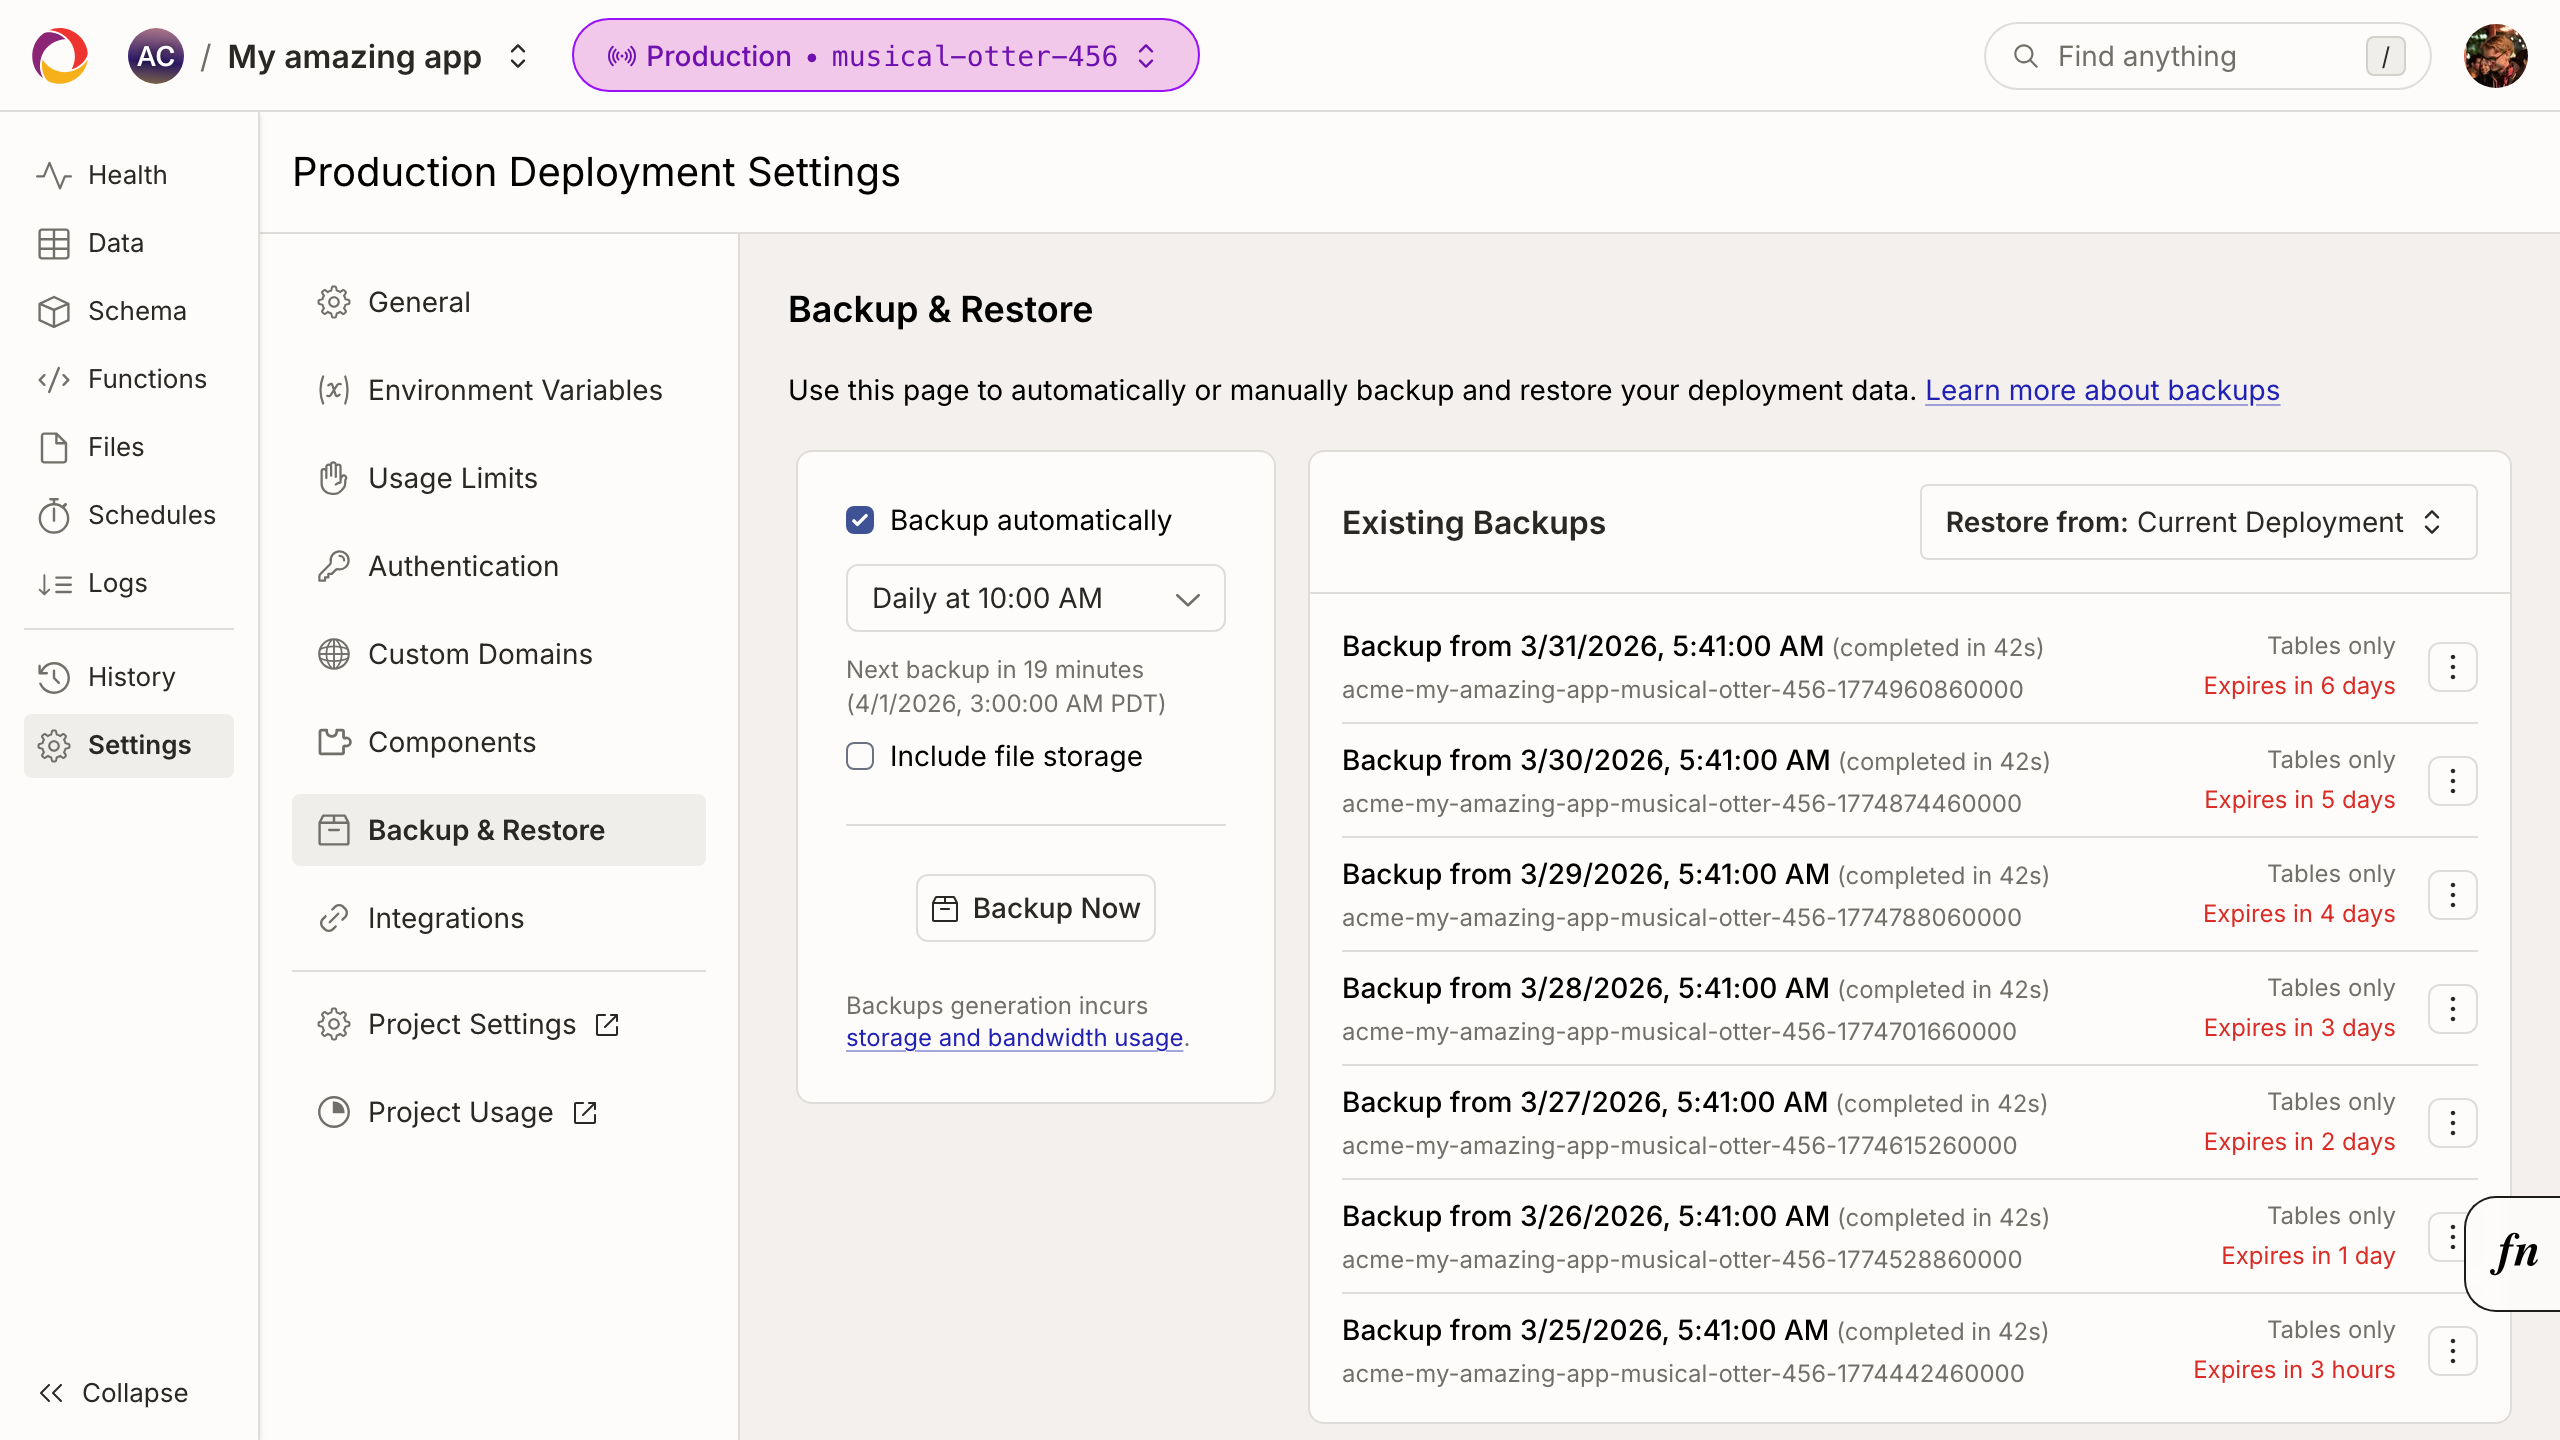
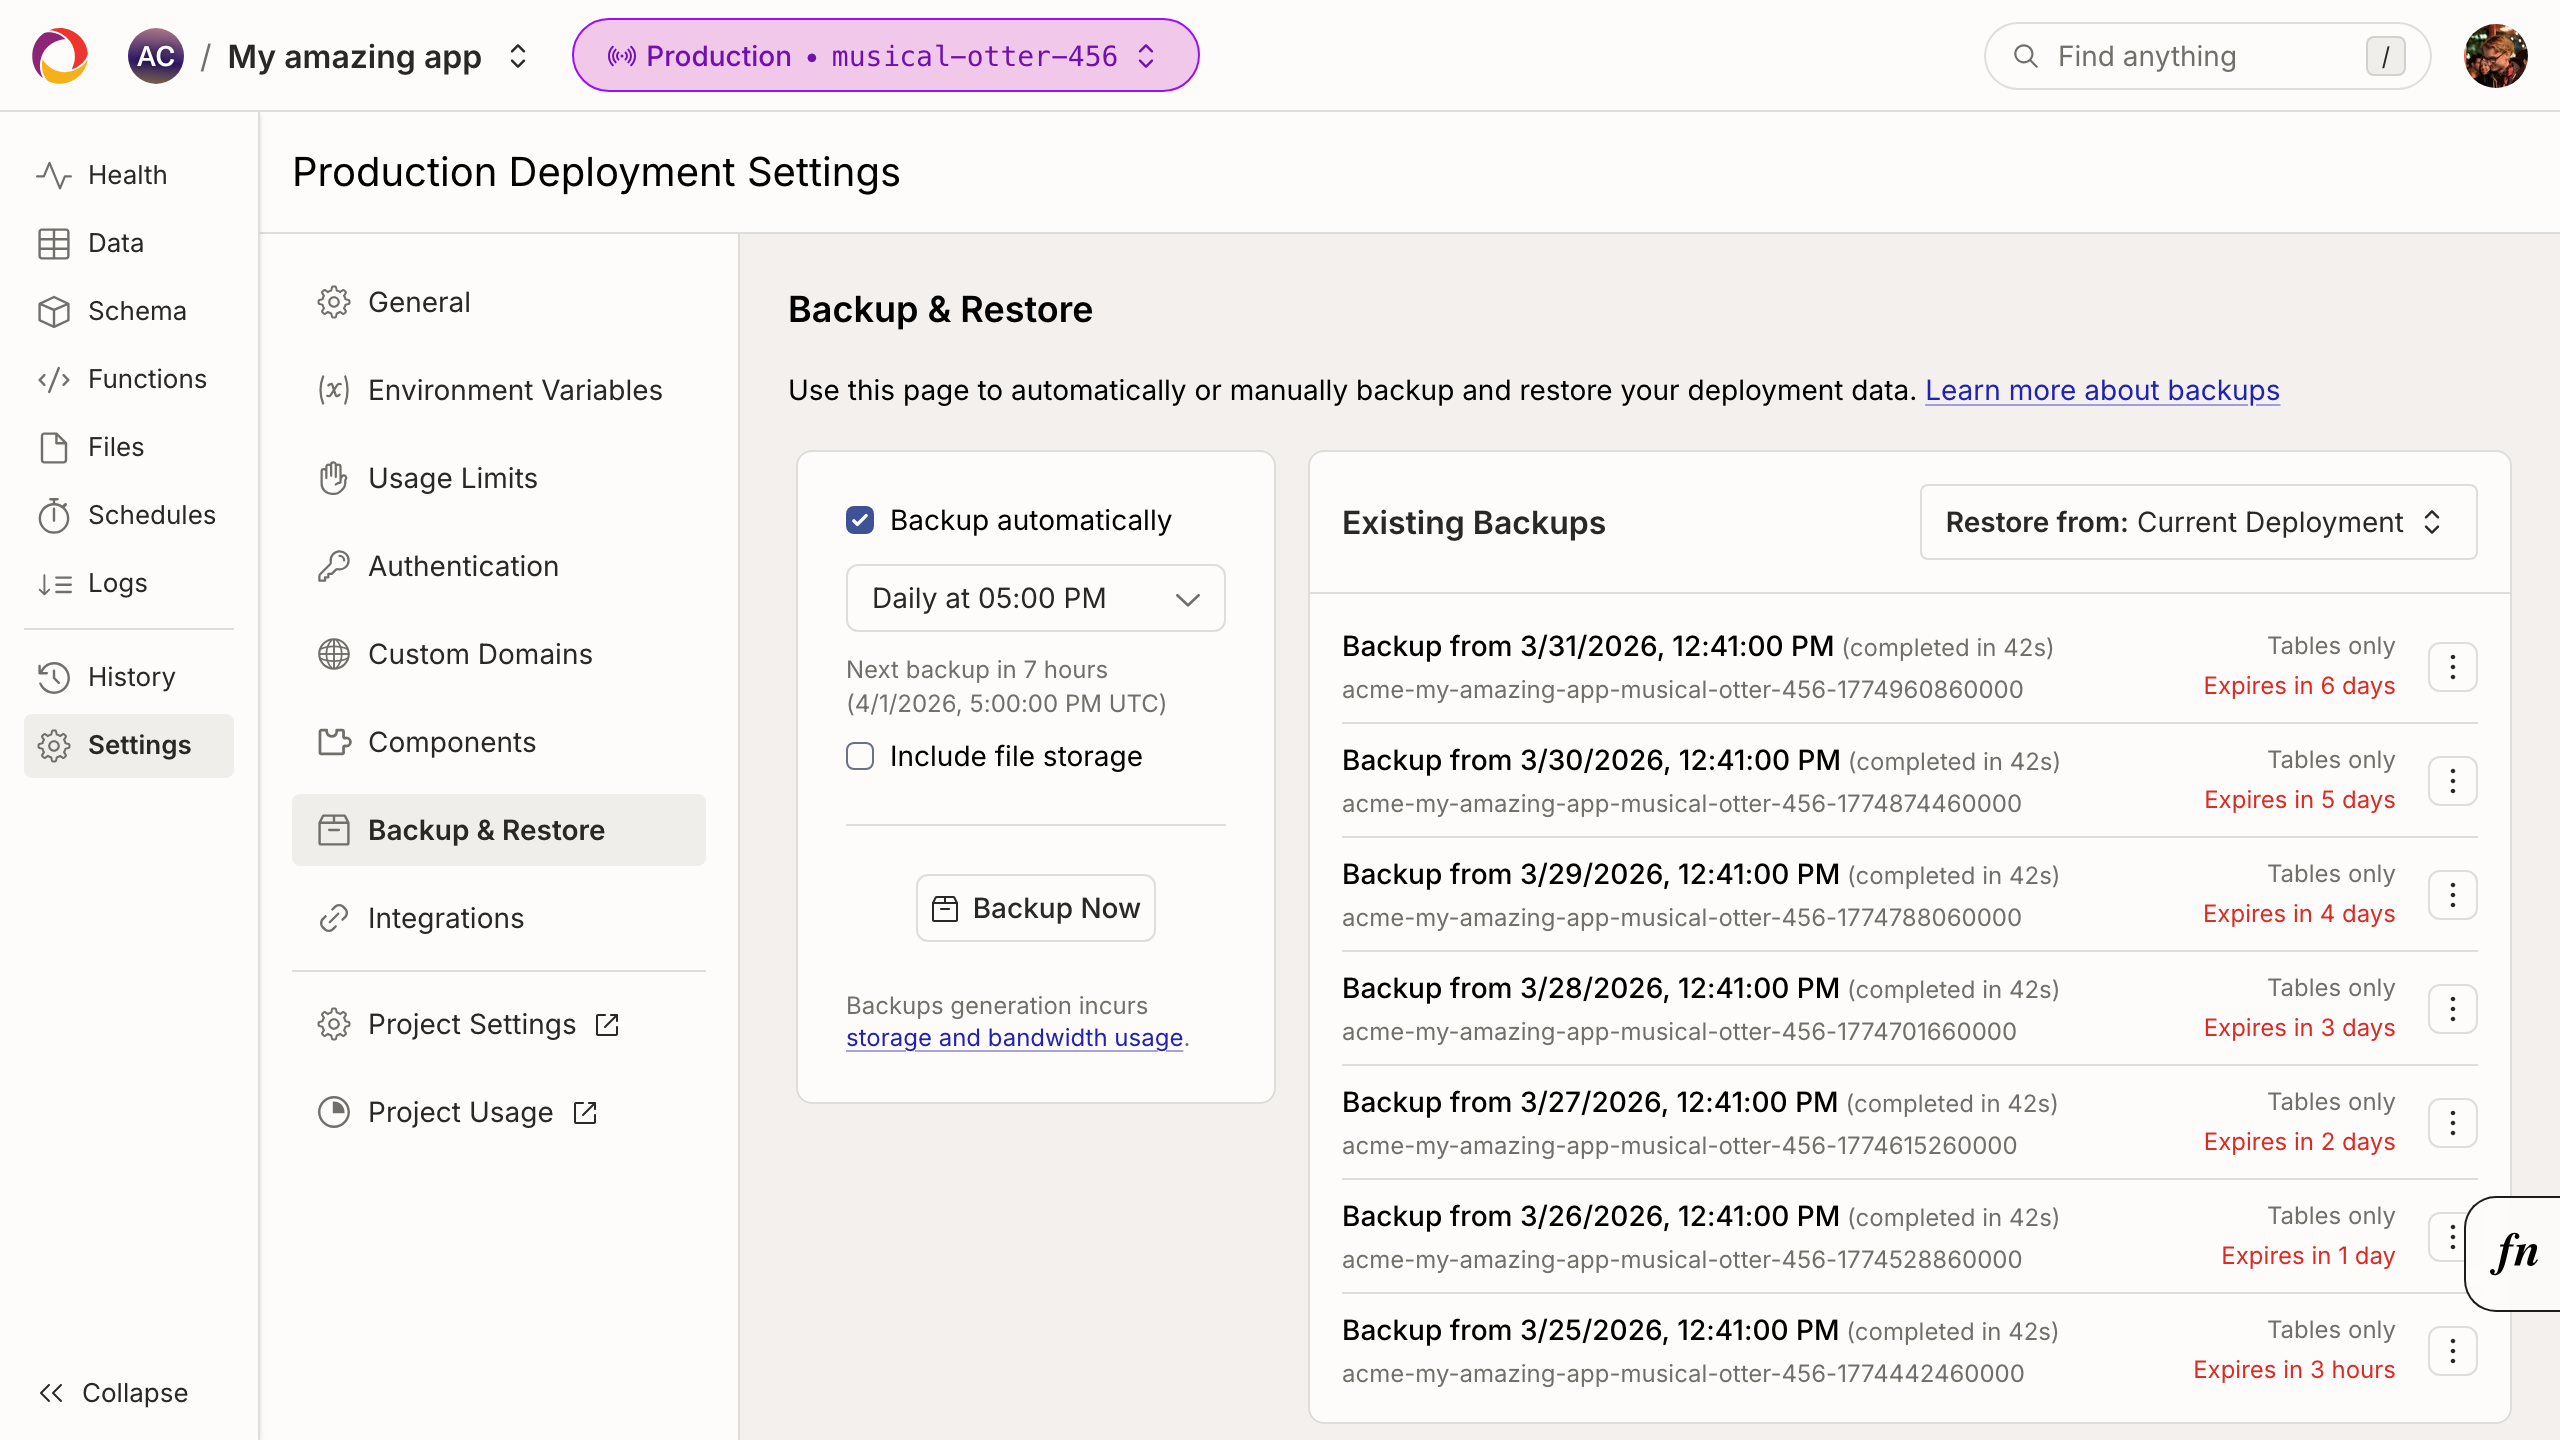
docs: Freeze the locale/timezone used for screenshots (#55847)
GitOrigin-RevId: f1d8b84727ca7ece079edb23d52b9539b40c3253

diff --git a/npm-packages/dashboard/src/docs/pages/project/deployment/settings/Backups.stories.tsx b/npm-packages/dashboard/src/docs/pages/project/deployment/settings/Backups.stories.tsx
@@ -23,7 +23,10 @@ import { useInfiniteProjects } from "api/projects";
 import { useCurrentTeam, useTeamEntitlements } from "api/teams";
 import { Backups } from "components/deploymentSettings/Backups";
 
-// Fixed "now" so the relative timestamps ("Expires in 6 days") are stable.
+// Fixed "now" so the relative timestamps ("Expires in 6 days") are stable. The
+// absolute times this page also renders (`toLocaleString`, `Intl.DateTimeFormat`
+// and the timezone abbreviation next to the schedule) depend on the browser's
+// locale and timezone, which the screenshot capture pins to en-US/UTC.
 const NOW = new Date("2026-04-01T09:41:00Z").getTime();
 const DAY = 24 * 60 * 60 * 1000;
 
@@ -71,10 +74,11 @@ const mockBackups: BackupResponse[] = Array.from({ length: 7 }, (_, i) => {
 
 const mockPeriodicBackupConfig = {
   sourceDeploymentId: mockDeployment.id,
-  // Daily, at the local-time equivalent of 17:00 UTC.
   cronspec: "0 17 * * *",
   expirationDeltaSecs: 7 * 24 * 60 * 60,
-  nextRun: NOW + 19 * 60 * 1000,
+  // The 17:00 UTC run following `NOW`, so the "next backup" line agrees with
+  // the schedule the selector renders from the cronspec.
+  nextRun: new Date("2026-04-01T17:00:00Z").getTime(),
   includeStorage: false,
 };
 

diff --git a/npm-packages/dashboard-storybook/scripts/generate-docs-screenshots.ts b/npm-packages/dashboard-storybook/scripts/generate-docs-screenshots.ts
@@ -20,6 +20,12 @@ const MANIFEST_PATH = path.resolve(
   "../docs/src/generated/screenshotManifest.ts",
 );
 
+// Stories render absolute times via `toLocaleString`/`Intl.DateTimeFormat`, and
+// timezone abbreviations from the browser's resolved timezone, so pin both to
+// keep screenshots identical no matter where they're regenerated.
+const LOCALE = "en-US";
+const TIMEZONE_ID = "UTC";
+
 const CROP_PADDING = 32; // in (real) pixels
 const CROP_PADDING_PAGE = 64; // in (real) pixels, for element crops in page stories
 const DEVICE_SCALE_FACTOR = 2;
@@ -248,6 +254,8 @@ async function captureScreenshot(
     context = await browser.newContext({
       viewport: { width: 1024, height: 700 },
       deviceScaleFactor: DEVICE_SCALE_FACTOR,
+      locale: LOCALE,
+      timezoneId: TIMEZONE_ID,
     });
     let page = await openStoryPage(context);
 
@@ -286,6 +294,8 @@ async function captureScreenshot(
       context = await browser.newContext({
         viewport: screenshotViewport,
         deviceScaleFactor: DEVICE_SCALE_FACTOR,
+        locale: LOCALE,
+        timezoneId: TIMEZONE_ID,
       });
       page = await openStoryPage(context);
     }

diff --git a/npm-packages/dashboard/src/docs/AGENTS.md b/npm-packages/dashboard/src/docs/AGENTS.md
@@ -25,6 +25,15 @@ import { Screenshot } from "@site/src/components/Screenshot";
   - Stories under `pages/project/` render pages inside a project.
   - Stories under `pages/project/deployment/` render pages inside a deployment.
 
+## Timestamps
+
+Capture runs in a browser pinned to the `en-US` locale and the `UTC` timezone,
+so a story only needs to freeze `Date.now()` (in `beforeEach`) for its rendered
+times to be identical on every machine. Write mock timestamps as UTC instants
+(`new Date("2026-04-01T09:41:00Z").getTime()`) and read them back as UTC when
+reviewing a screenshot — the local times you see in `just storybook` are your
+own timezone, not what gets captured.
+
 ## Cropping screenshots
 
 Page stories can be cropped to only show specific element(s) using
